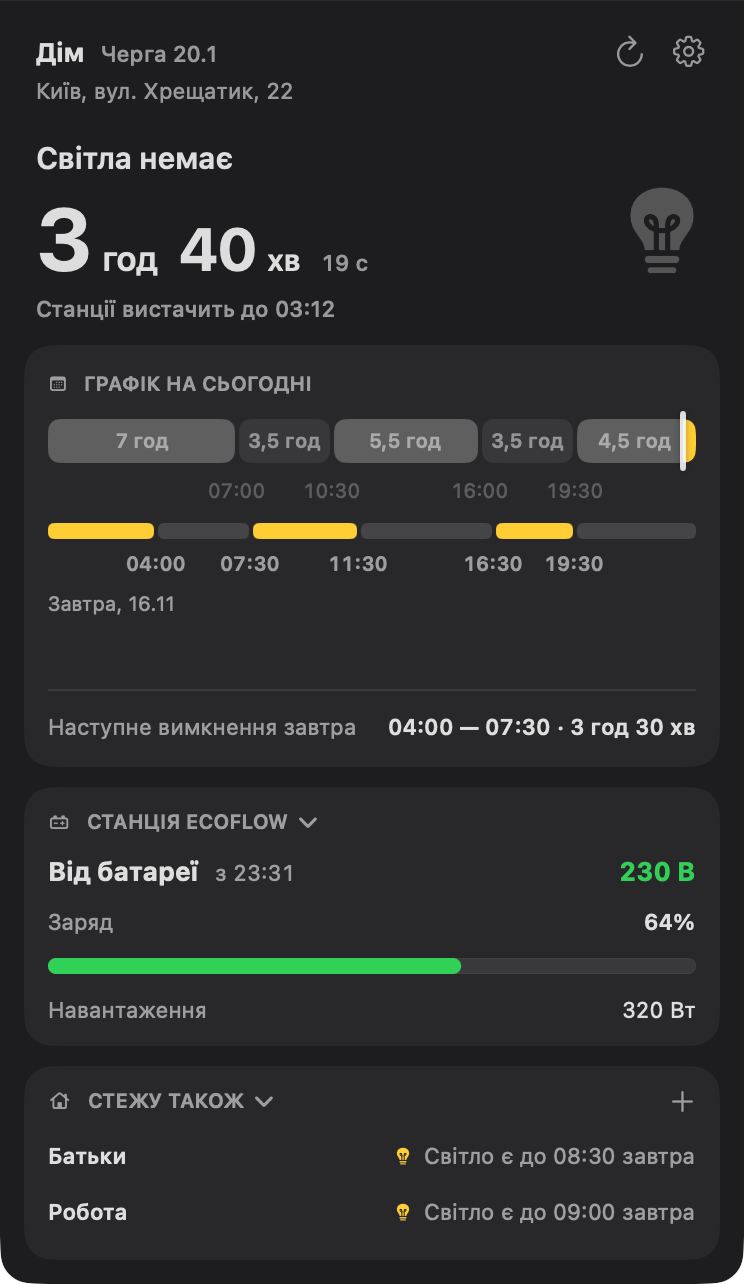
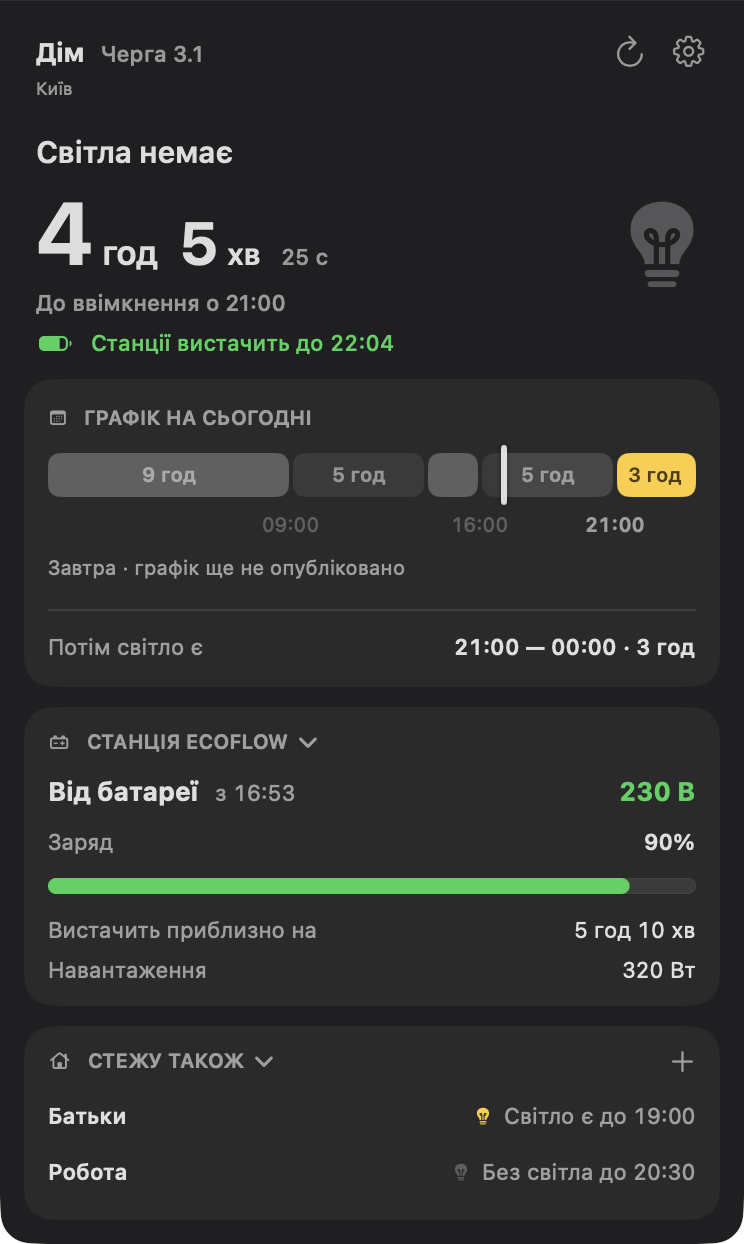
Site and README for 1.0.1: battery line, new screenshots
- Interactive panel: «Станції вистачить до 22:30» under the countdown without power.
- New light and dark screenshots from the demo build (invented addresses).
- Station text: whether the station lasts until the power is back.
- site.css and site.js bumped to ?v=2.

diff --git a/index.html b/index.html
@@ -17,7 +17,7 @@
   <title>Світлик для Mac — світло є. А до котрої?</title>
   <link rel="icon" href="assets/bulb.svg" type="image/svg+xml">
   <link rel="preload" href="assets/fonts/Zakon-Bold.ttf" as="font" type="font/ttf" crossorigin>
-  <link rel="stylesheet" href="site.css?v=1">
+  <link rel="stylesheet" href="site.css?v=2">
   <script>
     // The visitor's system decides what the page shows, before anything is drawn.
     (function () {
@@ -39,7 +39,7 @@
     gtag('js', new Date());
     gtag('config', 'G-LN29BEMHQQ');
   </script>
-  <script src="site.js?v=1" defer></script>
+  <script src="site.js?v=2" defer></script>
 </head>
 <body>
   <svg class="symbols" aria-hidden="true"><defs>
@@ -100,6 +100,7 @@
                   <p class="mp-title" data-mac="title">Світло є</p>
                   <p class="mp-count"><b data-mac="h">3</b><span>год</span><b data-mac="m">27</b><span class="mp-min">хв</span><small data-mac="s">00 с</small></p>
                   <p class="mp-caption" data-mac="caption">До вимкнення о 16:00</p>
+                  <p class="mp-battery" data-mac="battery"><svg viewBox="0 0 20 10" aria-hidden="true"><rect x=".75" y=".75" width="16" height="8.5" rx="2.5" fill="none" stroke="currentColor" stroke-width="1.5"/><rect x="3" y="3" width="10" height="4" rx="1" fill="currentColor"/><path d="M18.5 3.5v3" stroke="currentColor" stroke-width="1.5" stroke-linecap="round"/></svg><span>Станції вистачить до 22:30</span></p>
                 </div>
                 <svg class="mp-bulb" aria-hidden="true"><use href="#bulb"/></svg>
               </div>
@@ -129,7 +130,7 @@
           <div class="demo-controls"><span class="micro">Натисніть на лампочку</span><button type="button" id="mac-switch" aria-pressed="false"><span class="button-label">Показати без світла</span><svg class="icon" aria-hidden="true"><use href="#icon-swap"/></svg></button></div>
           <p class="demo-note">Це приклад. Свій графік побачите в застосунку, коли введете адресу.</p>
         </div>
-        <div class="phone-shots only-phone"><img src="assets/mac-light.png" width="744" height="1324" alt="Світлик на Mac: світло є, відлік і графік." loading="lazy"></div>
+        <div class="phone-shots only-phone"><img src="assets/mac-light.png" width="744" height="1204" alt="Світлик на Mac: світло є, відлік і графік." loading="lazy"></div>
       </div>
 
       <a class="next" href="#app" data-analytics="navigation_click" data-location="hero" data-target="app">Як це виглядає на вашому комп’ютері <svg aria-hidden="true"><use href="#arrow"/></svg></a>
@@ -141,8 +142,8 @@
       <div class="shots">
         <figure class="shot shot-mac only-mac">
           <div class="mac-pair">
-            <img src="assets/mac-light.png" width="744" height="1324" alt="Світлик на Mac у світлій темі: світло є, станція заряджається." loading="lazy">
-            <img src="assets/mac-dark.png" width="744" height="1284" alt="Світлик на Mac у темній темі: світла немає, станція живить квартиру." loading="lazy">
+            <img src="assets/mac-light.png" width="744" height="1204" alt="Світлик на Mac у світлій темі: світло є, станція заряджається." loading="lazy">
+            <img src="assets/mac-dark.png" width="744" height="1244" alt="Світлик на Mac у темній темі: світла немає, станції вистачить до 22:04, а світло дадуть о 21:00." loading="lazy">
           </div>
           <figcaption class="only-phone">Mac</figcaption>
         </figure>
@@ -170,7 +171,7 @@
           <div class="row-art mac-demo" aria-hidden="true"><div class="mac-panel art-panel"><div class="mp-card" style="margin:0"><p class="mp-card-title mp-watch-title">Стежу також<span class="mp-plus">+</span></p><p class="mp-watch"><b>Батьки</b><span><svg><use href="#bulb"/></svg>Світло є до 08:30 завтра</span></p><p class="mp-watch"><b>Робота</b><span class="is-off"><svg><use href="#bulb"/></svg>Без світла до 23:30</span></p><p class="mp-watch"><b>Дача</b><span><svg><use href="#bulb"/></svg>Світло є до 21:00</span></p></div></div></div>
         </div>
         <div class="row only-mac">
-          <div class="row-text"><h3>Бачить вашу станцію EcoFlow.</h3><p>Через Bluetooth, без інтернету: чи світло справді є, заряд, напругу в мережі й на скільки вистачить батареї. Зникло світло — повідомить одразу, навіть якщо ДТЕК ще мовчить.</p></div>
+          <div class="row-text"><h3>Бачить вашу станцію EcoFlow.</h3><p>Через Bluetooth, без інтернету: чи світло справді є, заряд, напругу в мережі й на скільки вистачить батареї. Зникло світло — повідомить одразу, навіть якщо ДТЕК ще мовчить. А під відліком покаже, чи вистачить станції до увімкнення світла; якщо ні — при якому споживанні вистачить.</p></div>
           <div class="row-art mac-demo" aria-hidden="true"><div class="mac-panel art-panel"><div class="mp-card mp-station" style="margin:0"><p class="mp-card-title">Станція EcoFlow</p><p class="mp-row"><b>Від батареї</b><b class="mp-volt">230 В</b></p><p class="mp-row"><span>Заряд</span><b>64%</b></p><div class="mp-charge"><i style="width:64%"></i></div><p class="mp-row"><span>Вистачить приблизно на</span><span>5 год 40 хв</span></p><p class="mp-row"><span>Навантаження</span><span>320 Вт</span></p></div></div></div>
         </div>
       </div>

diff --git a/site.css b/site.css
@@ -214,6 +214,9 @@ html[data-os="win"] .shot{max-width:900px}
 .mp-count .mp-min{font-size:13px}
 .mp-count small{font-size:11px;color:var(--mp-muted);margin-left:2px}
 .mp-caption{color:var(--mp-muted);margin-top:4px}
+.mp-battery{display:flex;align-items:center;gap:5px;margin-top:3px;color:#2bb24c;font-weight:600}
+.mp-battery svg{width:16px;height:8px;flex:none}
+.mac-demo[data-light="on"] .mp-battery{display:none}
 .mp-bulb{width:40px;height:48px;color:var(--lamp);--filament:var(--mp-bg);filter:drop-shadow(0 0 14px #ffcd35aa);transition:color .4s,filter .4s}
 .mac-demo[data-light="off"] .mp-bulb{color:#8d8b86;filter:none}
 @media (prefers-color-scheme:dark){.mac-demo[data-light="off"] .mp-bulb{color:#5d5d63}}

diff --git a/README.md b/README.md
@@ -14,9 +14,9 @@
 
 <br>
 
-<img src="assets/mac-light.png" width="372" alt="Світлик на Mac у світлій темі: світло є, станція заряджається від мережі."> &nbsp; <img src="assets/mac-dark.png" width="372" alt="Світлик на Mac у темній темі: світла немає, станція живить квартиру й покаже, на скільки її вистачить.">
+<img src="assets/mac-light.png" width="372" alt="Світлик на Mac у світлій темі: світло є, станція заряджається від мережі."> &nbsp; <img src="assets/mac-dark.png" width="372" alt="Світлик на Mac у темній темі: світла немає, станції вистачить до 22:04, а світло дадуть о 21:00.">
 
-<sub>Ліворуч — світло є, станція заряджається. Праворуч — світла немає, а Світлик рахує, скільки протримається станція. Адреси вигадані.</sub>
+<sub>Ліворуч — світло є, станція заряджається. Праворуч — світла немає, а під відліком видно, що станції вистачить до увімкнення. Адреси вигадані.</sub>
 
 </div>
 
@@ -24,7 +24,7 @@
 
 Світлик живе у верхньому рядку меню. Натисніть лампочку — відкриється панель із графіком вашого будинку, відліком до зміни світла й іншими адресами, за якими ви стежите. Перед вимкненням і ввімкненням Світлик нагадає.
 
-**А якщо вдома є зарядна станція EcoFlow,** Світлик під'єднається до неї через Bluetooth і знатиме, чи світло справді є, а не лише що каже графік. Зникло світло — одразу повідомить, дали — теж. Покаже заряд, напругу в мережі, скільки зараз споживає квартира і на скільки ще вистачить станції. А якщо відключення за графіком — підкаже, чи дотягнете до світла. Поки це працює з Delta 2 Max.
+**А якщо вдома є зарядна станція EcoFlow,** Світлик під'єднається до неї через Bluetooth і знатиме, чи світло справді є, а не лише що каже графік. Зникло світло — одразу повідомить, дали — теж. Покаже заряд, напругу в мережі, скільки зараз споживає квартира і на скільки ще вистачить станції. А під відліком покаже, чи вистачить станції до увімкнення світла, і якщо ні — при якому споживанні вистачить. Поки це працює з Delta 2 Max.
 
 Нові версії Світлик пропонує сам: у панелі з'явиться кнопка «Оновити», і за кілька секунд усе готово.
 
